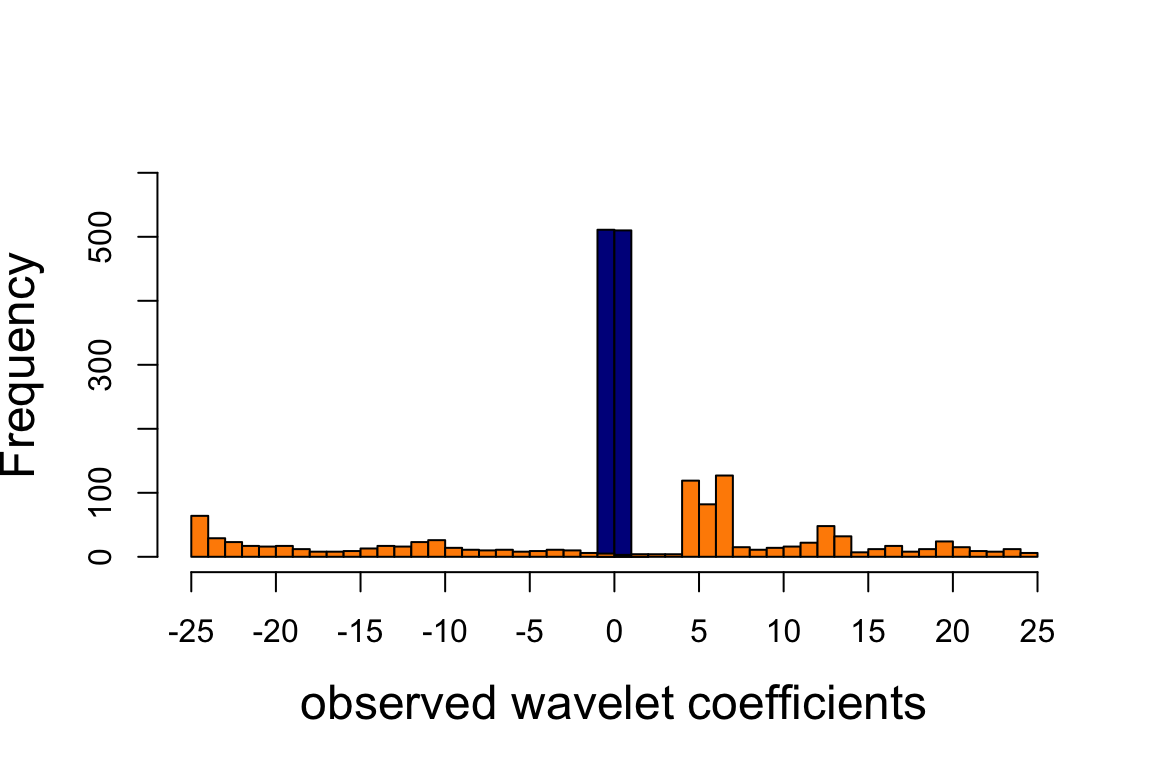
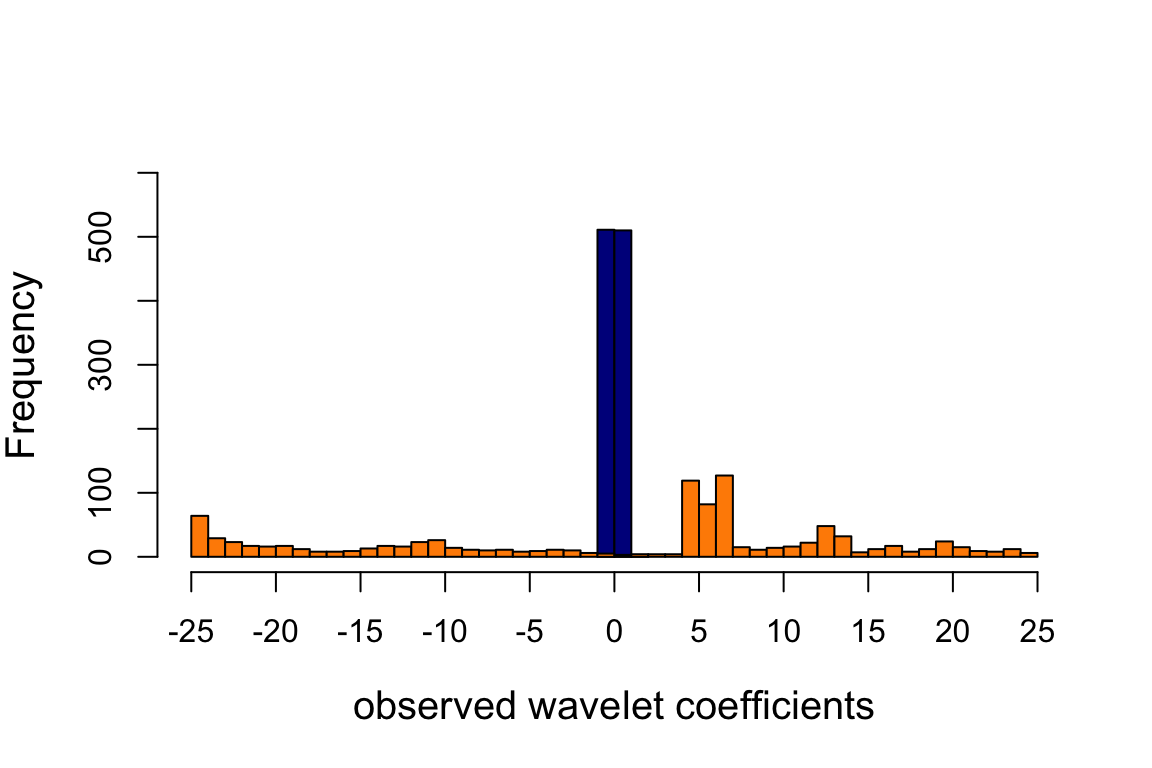
More minor improvements to the spikes demo.

Changed region(s): [[0.25, 0.875, 0.8125, 0.9375], [0.0, 0.3125, 0.0625, 0.625]]

diff --git a/docs/spikesdemo.html b/docs/spikesdemo.html
@@ -340,7 +340,7 @@ div.section {
 </details>
 </li>
 <li>
-<p><details> <summary> <strong style="color:blue;">✔</strong> <strong>Repository version:</strong> <a href="https://github.com/stephenslab/smash-paper/tree/297fcc1ab8049b72c32b2e7c8c3694b0f52ef5f1" target="_blank">297fcc1</a> </summary></p>
+<p><details> <summary> <strong style="color:blue;">✔</strong> <strong>Repository version:</strong> <a href="https://github.com/stephenslab/smash-paper/tree/3f6e340b7b0a802503f7a96bad4e225b01d082b9" target="_blank">3f6e340</a> </summary></p>
 Great! You are using Git for version control. Tracking code development and connecting the code version to the results is critical for reproducibility. The version displayed above was the version of the Git repository at the time these results were generated. <br><br> Note that you need to be careful to ensure that all relevant files for the analysis have been committed to Git prior to generating the results (you can use <code>wflow_publish</code> or <code>wflow_git_commit</code>). workflowr only checks the R Markdown file, but you know if there are other scripts or data files that it depends on. Below is the status of the Git repository when the results were generated:
 <pre><code>
 Ignored files:
@@ -406,6 +406,23 @@ Message
 </tr>
 </thead>
 <tbody>
+<tr>
+<td style="text-align:left;">
+Rmd
+</td>
+<td style="text-align:left;">
+<a href="https://github.com/stephenslab/smash-paper/blob/3f6e340b7b0a802503f7a96bad4e225b01d082b9/analysis/spikesdemo.Rmd" target="_blank">3f6e340</a>
+</td>
+<td style="text-align:left;">
+Peter Carbonetto
+</td>
+<td style="text-align:left;">
+2018-08-23
+</td>
+<td style="text-align:left;">
+wflow_publish(“spikesdemo.Rmd”)
+</td>
+</tr>
 <tr>
 <td style="text-align:left;">
 Rmd
@@ -501,7 +518,7 @@ rsnr   &lt;- sqrt(3)
 sig.cb &lt;- sig.cb/mean(sig.cb) * sd(mu.sp)/rsnr^2
 x.sim  &lt;- rnorm(n,mu.sp,sig.cb)</code></pre>
 <p>Plot the simulated data set.</p>
-<pre class="r"><code>par(cex.axis = 1,cex.lab = 1.5)
+<pre class="r"><code>par(cex.axis = 1,cex.lab = 1.25)
 plot(mu.sp,type = &#39;l&#39;,ylim = c(-0.05,1),xlab = &quot;position&quot;,
      ylab = &quot;&quot;,lwd = 1.7,xaxp = c(0,1024,4),yaxp = c(0,1,4))
 lines(mu.sp + 2*sig.cb,col = &quot;darkorange&quot;,lty = 5,lwd = 1.8)
@@ -556,7 +573,7 @@ mu.ti    &lt;- ti.thresh(x.sim,method = &quot;rmad&quot;,family = &quot;DaubLeAs
 <pre class="r"><code>wc.sim     &lt;- titable(x.sim)$difftable
 wc.var.sim &lt;- titable(sig.cb^2)$sumtable
 wc.true    &lt;- titable(mu.sp)$difftable</code></pre>
-<p>Get shrunken estimates of the wavelet coefficients.</p>
+<p>Get the shrunken estimates of the wavelet coefficients.</p>
 <pre class="r"><code>wc.sim.shrunk &lt;- vector(&quot;list&quot;,10)
 wc.pres       &lt;- vector(&quot;list&quot;,10)
 for(j in 0:(log2(n) - 1)){
@@ -570,7 +587,7 @@ for(j in 0:(log2(n) - 1)){
 <div id="summarize-results" class="section level2">
 <h2>Summarize results</h2>
 <p>Plot the distribution of the observed wavelet coefficients at a coarser scale (scale = 1, orange) and at a finer scale (scale = 7, dark blue).</p>
-<pre class="r"><code>par(cex.axis = 1,cex.lab = 1.5)
+<pre class="r"><code>par(cex.axis = 1,cex.lab = 1.25)
 hist(wc.sim[4,],breaks = 2,xlab = &quot;observed wavelet coefficients&quot;,
      xlim = c(-25,25),ylim = c(0,600),col = &quot;darkblue&quot;,xaxp = c(-25,25,10),
      yaxp = c(0,600,6),main = &quot;&quot;)
@@ -578,7 +595,7 @@ hist(wc.sim[10,],breaks = 40,add = TRUE,col = &quot;darkorange&quot;)</code></pr
 <p><img src="figure/spikesdemo.Rmd/plot-wc-histogram-1.png" width="576" style="display: block; margin: auto;" /></p>
 <p>Observe that the scale = 7 WCs are much more concentrated near zero because the signal is smoother at this finer scale.</p>
 <p>Plot the observed wavelet coefficients (at scales 1 and 7 only) vs. the “shrunken” wavelet coefficients estimated by adaptive shrinkage.</p>
-<pre class="r"><code>par(cex.axis = 1,cex.lab = 1.5)
+<pre class="r"><code>par(cex.axis = 1,cex.lab = 1.25)
 plot(c(),c(),xlab = &quot;observed wavelet coefficients&quot;,
      ylab = &quot;shrunken wavelet coefficients&quot;,
      xlim = c(-2.5,2.5),ylim = c(-2.5,2.5))
@@ -588,6 +605,7 @@ points(wc.sim[10,],wc.sim.shrunk[[9]]$PosteriorMean,pch = 20,cex = 1,
 points(wc.sim[4,],wc.sim.shrunk[[3]]$PosteriorMean,pch = 20,cex = 1,
        col = &quot;darkblue&quot;)</code></pre>
 <p><img src="figure/spikesdemo.Rmd/wc-scatterplot-1.png" width="480" style="display: block; margin: auto;" /></p>
+<p>Observe that the scale = 7 WCs are strongly shrunk toward zero, whereas the scale = 1 WCs are not shrunk nearly as much; SMASH infers from the data that the scale = 7 WCs are heavily concentrated around zero, and consequently SMASH shrinks them more strongly.</p>
 <p>Plot the observed wavelet coefficients (at scale 7 only) vs. the “shrunken” wavelet coefficients estimated by adaptive shrinkage, and how how the amount of shrinkage depends on the standard error (s.e.) in the observations.</p>
 <pre class="r"><code>wc.sig.3 &lt;- 1/wc.pres[[3]]
 p &lt;- ggplot(data.frame(observed = wc.sim[4,],
@@ -600,77 +618,15 @@ p &lt;- ggplot(data.frame(observed = wc.sim[4,],
   scale_color_gradientn(colors = c(&quot;deepskyblue&quot;,&quot;darkblue&quot;)) +
   theme_cowplot()
 print(p)</code></pre>
-<p><img src="figure/spikesdemo.Rmd/unnamed-chunk-1-1.png" width="672" style="display: block; margin: auto;" /></p>
-<details> <summary><em>Expand here to see past versions of unnamed-chunk-1-1.png:</em></summary>
-<table style="border-collapse:separate; border-spacing:5px;">
-<thead>
-<tr>
-<th style="text-align:left;">
-Version
-</th>
-<th style="text-align:left;">
-Author
-</th>
-<th style="text-align:left;">
-Date
-</th>
-</tr>
-</thead>
-<tbody>
-<tr>
-<td style="text-align:left;">
-<a href="https://github.com/stephenslab/smash-paper/blob/04e9900cfa04c97adda63cec4f5ef4df2ed23116/docs/figure/spikesdemo.Rmd/unnamed-chunk-1-1.png" target="_blank">04e9900</a>
-</td>
-<td style="text-align:left;">
-Peter Carbonetto
-</td>
-<td style="text-align:left;">
-2018-08-23
-</td>
-</tr>
-</tbody>
-</table>
-<p></details></p>
-<p>The scale = 7 WCs are strongly shrunk toward zero, whereas the scale = 1 WCs are not shrunk nearly as much; SMASH infers from the data that the scale = 7 WCs are heavily concentrated around zero, and consequently SMASH shrinks them more strongly.</p>
-<p>Plot the ground-truth signal (mean function) and the signals recovered by the TI thresholding and smash methods.</p>
-<pre class="r"><code>par(cex.axis = 0.8)
+<p><img src="figure/spikesdemo.Rmd/wc-scatterplot-2-1.png" width="480" style="display: block; margin: auto;" /></p>
+<p>From this plot, we see that SMASH shrinks WCs differently depending on their precision; specifically, WCs that are less precise—i.e., higher standard error (s.e.)—are shrunk more strongly toward zero.</p>
+<p>Finally, we plot the ground-truth signal (the mean function, drawn as a black line) and the signals recovered by TI thresholding (light blue line) and SMASH (the red line). The TI thresholding estimate shows notable artifacts.</p>
+<pre class="r"><code>par(cex.axis = 1)
 plot(mu.sp,type = &quot;l&quot;,col = &quot;black&quot;,lwd = 2,xlab = &quot;position&quot;,ylab = &quot;&quot;,
      ylim = c(-0.05,1),xaxp = c(0,1024,4),yaxp = c(0,1,4))
-lines(mu.ti,col = &quot;dodgerblue&quot;,lwd = 1.5)
-lines(mu.smash,col = &quot;orangered&quot;,lwd = 1.5)</code></pre>
-<p><img src="figure/spikesdemo.Rmd/unnamed-chunk-2-1.png" width="672" style="display: block; margin: auto;" /></p>
-<details> <summary><em>Expand here to see past versions of unnamed-chunk-2-1.png:</em></summary>
-<table style="border-collapse:separate; border-spacing:5px;">
-<thead>
-<tr>
-<th style="text-align:left;">
-Version
-</th>
-<th style="text-align:left;">
-Author
-</th>
-<th style="text-align:left;">
-Date
-</th>
-</tr>
-</thead>
-<tbody>
-<tr>
-<td style="text-align:left;">
-<a href="https://github.com/stephenslab/smash-paper/blob/04e9900cfa04c97adda63cec4f5ef4df2ed23116/docs/figure/spikesdemo.Rmd/unnamed-chunk-2-1.png" target="_blank">04e9900</a>
-</td>
-<td style="text-align:left;">
-Peter Carbonetto
-</td>
-<td style="text-align:left;">
-2018-08-23
-</td>
-</tr>
-</tbody>
-</table>
-<p></details></p>
-<pre class="r"><code>cat(&quot;Demo is over.\n&quot;)
-# Demo is over.</code></pre>
+lines(mu.ti,col = &quot;dodgerblue&quot;,lwd = 2)
+lines(mu.smash,col = &quot;orangered&quot;,lwd = 2)</code></pre>
+<p><img src="figure/spikesdemo.Rmd/plot-mean-signal-vs-estimates-1.png" width="960" style="display: block; margin: auto;" /></p>
 </div>
 <div id="session-information" class="section level2">
 <h2>Session information</h2>
